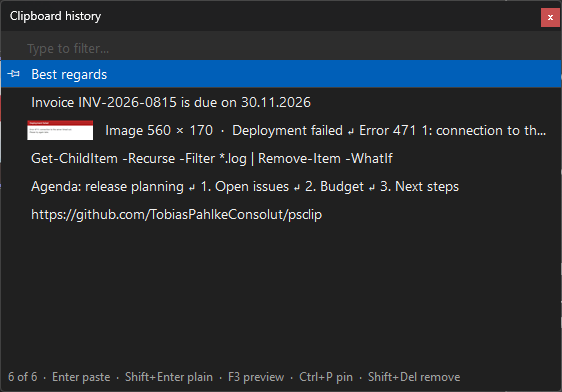
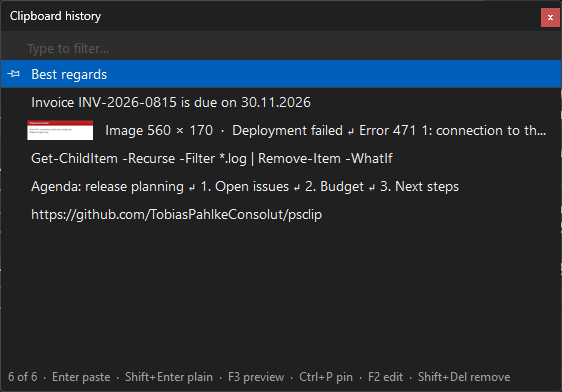
Edit text entries with F2 in a window of their own
F2 (or "Edit" in the right-click menu) opens the selected text entry in a
plain text box in its own window, where the popup was, in the theme's
colors (title bar and scrollbar included). No buttons: closing it - Esc,
or the window's X - saves.

- Unchanged text keeps the entry as it was; changed text drops HTML/RTF,
  which hold the old text. Blank text is not taken.
- An edited entry keeps its place; another history entry that now has the
  same text is removed; edited pinned entries are saved ("Keep pinned
  entries"); the memory limit applies.
- Images cannot be edited (no F2, no menu item).
- Status line hint "F2 edit"; README screenshots updated.
- Tests: unit tests for the update rules and the F2 flow; end-to-end step
  presses F2, checks text and theme, types, saves with Esc.

diff --git a/README.md b/README.md
@@ -23,6 +23,7 @@ The history lives in memory only and is gone when the script exits; only pinned 
   so typing a word from a screenshot finds it; typing `image` lists all images
 - **Preview** (`F3`) of the selected entry below the list: the full text or the image with its recognized text -
   select and copy any part of it; drag the top edge to make the preview bigger
+- **Edit** any text entry (`F2`), e.g. to fix a pinned snippet: a plain text window, `Esc` saves
 - **Pin** entries to the top - pinned entries are never dropped and survive "Clear history"; with *Keep pinned
   entries* (tray menu or `-KeepPinned`) they also survive a restart (saved encrypted for your Windows account)
 - **Dark mode** (default) or light mode, switchable from the tray menu
@@ -113,6 +114,7 @@ Press the hotkey anywhere. The popup opens at the mouse pointer, or - with *Open
 | `Enter`, double-click          | Paste the entry into the window that was active, with its formatting |
 | `Shift+Enter`                  | Paste it as plain text                           |
 | `F3`                           | Show / hide the preview: full text or image, length, time copied |
+| `F2`                           | Edit the text in a window of its own; `Esc` saves and closes it (changed text loses its formatting) |
 | `Ctrl+P`                       | Pin / unpin the entry                            |
 | `Shift+Delete`                 | Remove the entry                                 |
 | `Esc`, click elsewhere         | Close                                            |

diff --git a/AGENTS.md b/AGENTS.md
@@ -160,6 +160,13 @@ See [README.md](README.md) for features and usage.
   and WinForms re-sorts a hidden control in that collection when its window is created later, at the first show -
   so `New-PopupWindow` creates all windows up front (`Initialize-ControlHandles`). The end-to-end test drags both
   bars with the real mouse.
+- `F2` / *Edit* (`Edit-SelectedEntry`) opens a text entry in `Show-EditDialog`: a modal window with one plain
+  `TextBox`, in the theme's colors, where the popup was; no buttons - closing it (Esc, X) saves. It opens via
+  `BeginInvoke` after the key press; the popup hides when it loses the focus. `Update-EntryText` takes changed text
+  only (compared with the CR LF text shown, `ConvertTo-EditText`), drops HTML/RTF (they hold the old text), removes
+  a history entry with the same text and saves pinned entries. Set .NET string fields to `[NullString]::Value`,
+  not `$null` (which becomes `''` - `HasFormatting` would stay true). The form is disposed: no text stays in a
+  hidden window.
 - `Hide-Popup` empties the list and the preview: hidden controls can still be read by other programs
   (`LB_GETTEXT`, `WM_GETTEXT`), so no history content stays in them while the popup is closed.
 - `Update-StatusText` drops the last key hints until the line fits the popup's width.
